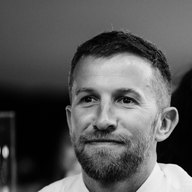
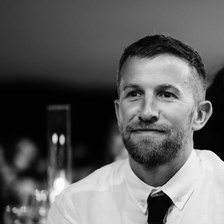
Left aligned hero

diff --git a/index.html b/index.html
@@ -22,7 +22,7 @@
 <meta name="twitter:image" content="https://jdux.design/assets/og-card.png?v=2">
 <link rel="icon" type="image/png" href="assets/jdux-logo.png">
 <link rel="apple-touch-icon" href="assets/jdux-logo.png">
-<script type="application/ld+json">{"@context":"https://schema.org","@type":"Person","name":"Jack Donovan","jobTitle":"Experience & Product Design Leader","url":"https://jdux.design/","address":{"@type":"PostalAddress","addressLocality":"London","addressCountry":"GB"},"knowsAbout":["Product Design","UX Design","Design Leadership","Design Systems"]}</script>
+<script type="application/ld+json">{"@context":"https://schema.org","@type":"Person","name":"Jack Donovan","jobTitle":"Product & Service Design Lead","url":"https://jdux.design/","address":{"@type":"PostalAddress","addressLocality":"Brighton and Hove","addressCountry":"GB"},"knowsAbout":["Product Design","UX Design","Design Leadership","Design Systems"]}</script>
 </head>
 <body>
 <x-dc>
@@ -39,9 +39,12 @@ a{color:inherit}
 @keyframes recblink{0%,100%{opacity:1}50%{opacity:0}}
 #g3-scroll::-webkit-scrollbar{display:none}
 .cases-mob{display:none}
-.hero-sectors a{color:var(--fg);text-decoration:none;border-bottom:2px solid var(--muted);cursor:pointer;transition:border-color .3s,color .3s}
+.hero-sectors a{color:var(--fg);text-decoration:none;border-bottom:1px solid var(--muted);cursor:pointer;transition:border-color .3s,color .3s}
 .hero-sectors a:hover,.hero-sectors a:focus-visible{border-bottom-color:var(--fg)!important;outline:none}
 .hero-sectors a:focus-visible{outline:2px solid var(--fg);outline-offset:4px}
+.hero-cta{display:inline-flex;align-items:center;gap:10px;padding:15px 22px;border-radius:4px;background:var(--fg);color:var(--bg);text-decoration:none;font:600 11px/1 'IBM Plex Mono';letter-spacing:.18em;text-transform:uppercase;transition:opacity .25s,transform .25s}
+.hero-cta:hover{opacity:.85}
+.hero-cta:focus-visible{outline:2px solid var(--fg);outline-offset:3px}
 .nav-compact{display:none}
 /* Tablet + mobile: compact nav, touch carousel, stacked sections */
 @container home (max-width:1199px){
@@ -63,7 +66,7 @@ a{color:inherit}
 }
 @container home (max-width:767px){
   .nav-desktop-only{display:none!important}
-  .hero-trust{gap:14px 18px!important}
+  .hero-trust{grid-template-columns:repeat(4,auto)!important;gap:16px 26px!important}
   .hero-trust img{height:15px!important;width:auto!important;max-width:62px!important;object-fit:contain}
   .hero-trust img[alt="Legal & General"],.hero-trust img[alt="Simplyhealth"],.hero-trust img[alt="Belmond"],.hero-trust img[alt="Matter of Form"],.hero-trust img[alt="AGL"]{height:24px!important}
   .hero-trust img[alt="Zepho"]{height:11px!important}
@@ -72,7 +75,9 @@ a{color:inherit}
   .hero-trust-wrap{bottom:34px!important}
   .hero-scroll-cue{display:none!important}
   .hero-sectors>span{margin:0 .3em!important}
-  .hero-sectors{font-size:1rem!important}
+  .hero-sectors{font-size:.88rem!important}
+  .hero-id-dash{display:none}
+  .hero-id-title{display:block;margin-top:3px}
   .writing-item{grid-template-columns:1fr!important;gap:7px!important;padding-top:20px!important;padding-bottom:22px!important}
   .writing-num{display:none!important}
   .writing-meta{justify-content:flex-start!important}
@@ -87,7 +92,7 @@ a{color:inherit}
 <div id="home-root" class="home-root" ref="{{ homeRef }}" style="position:relative;width:100%;height:100%;container:home / inline-size;--display:'EB Garamond',serif;--bg:#eceae4;--fg:#191815;--muted:#8a887f;--line:rgba(0,0,0,.16);background:var(--bg);color:var(--fg);font-family:'IBM Plex Sans',system-ui,sans-serif;transition:background-color .5s,color .5s;overflow:hidden">
 
 <div id="g3-nav" style="position:absolute;top:0;left:0;right:0;z-index:30;display:flex;align-items:center;justify-content:space-between;padding:22px 36px;box-sizing:border-box;background:transparent;border-bottom:1px solid transparent;transition:background .4s ease,backdrop-filter .4s ease,border-color .4s ease,box-shadow .4s ease,padding .35s ease">
-<div style="display:flex;align-items:center;gap:20px"><div style="color:var(--fg)"><img data-logoflip="" src="assets/jdux-logo.png" alt="JDUX" style="height:32px;width:auto;display:block"></div><span class="nav-desktop-only" style="width:1px;height:22px;background:var(--line)"></span><div class="nav-desktop-only" style="font:500 10px/1.4 'IBM Plex Mono';letter-spacing:.12em;color:var(--muted)"><div style="color:var(--fg);letter-spacing:.16em;text-transform:uppercase">London, UK</div><div><span id="g3-loc-time">--:--:--</span></div></div></div>
+<div style="display:flex;align-items:center;gap:20px"><div style="color:var(--fg)"><img data-logoflip="" src="assets/jdux-logo.png" alt="JDUX" style="height:32px;width:auto;display:block"></div><span class="nav-desktop-only" style="width:1px;height:22px;background:var(--line)"></span><div class="nav-desktop-only" style="font:500 10px/1.4 'IBM Plex Mono';letter-spacing:.12em;color:var(--muted)"><div style="color:var(--fg);letter-spacing:.16em;text-transform:uppercase">Brighton &amp; Hove, UK</div><div><span id="g3-loc-time">--:--:--</span></div></div></div>
 <div class="nav-desktop" style="display:flex;align-items:center;gap:24px">
 <nav style="display:flex;align-items:center;gap:13px;font-size:12px;letter-spacing:.06em;text-transform:uppercase;color:var(--fg)"><span data-nav="work" style="color:var(--muted);cursor:pointer">Work</span><span style="width:3px;height:3px;border-radius:50%;background:var(--muted);display:inline-block"></span><span data-nav="thoughts" style="color:var(--muted);cursor:pointer">Thoughts</span><span style="width:3px;height:3px;border-radius:50%;background:var(--muted);display:inline-block"></span><span data-nav="about" style="color:var(--muted);cursor:pointer">About</span><span style="width:3px;height:3px;border-radius:50%;background:var(--muted);display:inline-block"></span><span data-nav="contact" style="color:var(--muted);cursor:pointer">Contact</span></nav>
 <span style="width:1px;height:22px;background:var(--line)"></span>
@@ -108,7 +113,7 @@ a{color:inherit}
 <span data-mnav="contact" style="font-family:var(--display,'EB Garamond',serif);font-size:44px;line-height:1.5;letter-spacing:-.01em;cursor:pointer">Contact</span>
 </nav>
 <div style="border-top:1px solid var(--line);padding-top:22px;display:flex;flex-direction:column;gap:8px">
-<div style="font:600 10px/1 'IBM Plex Mono';letter-spacing:.16em;text-transform:uppercase;color:var(--muted)">London, UK · <span id="g3-loc-time2">--:--:--</span></div>
+<div style="font:600 10px/1 'IBM Plex Mono';letter-spacing:.16em;text-transform:uppercase;color:var(--muted)">Brighton &amp; Hove · <span id="g3-loc-time2">--:--:--</span></div>
 <a href="mailto:jack@jdux.design" style="font:500 14px/1.4 'IBM Plex Sans';color:var(--fg);text-decoration:none">jack@jdux.design</a>
 </div>
 </div>
@@ -129,14 +134,14 @@ a{color:inherit}
 <div id="g3-scroll" style="position:absolute;inset:0;overflow-y:auto;overflow-x:hidden;scrollbar-width:none">
 
 <section id="g3-hero" style="height:100%;min-height:600px;position:relative;display:flex;align-items:center;justify-content:center">
-<div class="hero-pad" style="position:relative;z-index:2;max-width:1080px;text-align:center;padding:0 60px;box-sizing:border-box">
-<div class="hero-id" style="display:flex;align-items:center;justify-content:center;gap:14px;margin-bottom:clamp(20px,3cqi,30px)"><img src="assets/hero-jack.jpg" alt="" width="52" height="52" style="width:52px;height:52px;border-radius:50%;object-fit:cover;display:block;flex:0 0 auto"><div style="text-align:left;display:flex;flex-direction:column;gap:7px"><span style="font:600 16px/1.1 'IBM Plex Sans';color:var(--fg)">Jack Donovan</span><span style="font:500 11px/1.2 'IBM Plex Mono';letter-spacing:.18em;text-transform:uppercase;color:var(--muted)">Product &amp; Service Design Lead</span></div></div>
-<h1 style="margin:0;font-family:var(--display,'EB Garamond',serif);font-weight:500;font-size:clamp(2.35rem,6.6cqi,5.75rem);line-height:1.02;letter-spacing:-.01em">I build what's missing.</h1>
-<p style="margin:clamp(20px,3cqi,30px) auto 0;max-width:56ch;font-size:clamp(1rem,1.55cqi,1.31rem);line-height:1.6;color:var(--fg);transition:color .4s ease,text-shadow .4s ease">Teams, standards, and products, in sectors that shape everyday life:</p>
-<nav class="hero-sectors" aria-label="Work by sector" style="margin-top:12px;font-size:clamp(1rem,1.55cqi,1.31rem);line-height:1.6"><a href="kaluza.html" data-home-trig="" data-idx="0">Energy</a><span aria-hidden="true" style="color:var(--muted);margin:0 .55em">·</span><a href="practi.html" data-home-trig="" data-idx="2">Healthcare</a><span aria-hidden="true" style="color:var(--muted);margin:0 .55em">·</span><a href="ford.html" data-home-trig="" data-idx="1">Automotive</a><span aria-hidden="true" style="color:var(--muted);margin:0 .55em">·</span><a href="wadi.html" data-home-trig="" data-idx="3">Hospitality</a></nav>
-<div data-hero-bright="" class="hero-scroll-cue" style="margin-top:clamp(22px,3cqi,30px);font:500 11px/1 'IBM Plex Mono';letter-spacing:.2em;text-transform:uppercase;color:var(--muted);transition:color .4s ease">Scroll to explore ↓</div>
+<div class="hero-pad" style="position:relative;z-index:2;width:100%;text-align:left;padding:0 36px;box-sizing:border-box">
+<div class="hero-id" style="display:flex;align-items:center;justify-content:flex-start;gap:16px;margin-bottom:clamp(22px,3.2cqi,34px)"><img src="assets/hero-jack.jpg" alt="" width="56" height="56" style="width:56px;height:56px;border-radius:50%;object-fit:cover;display:block;flex:0 0 auto"><div style="font-size:clamp(1rem,1.4cqi,1.25rem);line-height:1.3;color:var(--muted);text-align:left"><strong style="font-weight:600;color:var(--fg)">Jack Donovan</strong><span class="hero-id-dash"> — </span><span class="hero-id-title">Product &amp; Service Design Lead</span></div></div>
+<h1 data-hero-ticker="" style="margin:0;font-family:var(--display,'EB Garamond',serif);font-weight:500;font-size:clamp(2.35rem,6.6cqi,5.75rem);line-height:1.02;letter-spacing:-.01em;min-height:1.04em;transition:color .4s ease,text-shadow .4s ease"><span id="home-ticker"></span><span style="display:inline-block;width:.06em;height:.66em;margin-left:.09em;background:currentColor;vertical-align:baseline;animation:recblink 1.05s step-end infinite"></span></h1>
+<p style="margin:clamp(20px,3cqi,30px) 0 0;max-width:58ch;font-size:clamp(1rem,1.55cqi,1.31rem);line-height:1.6;color:var(--fg);transition:color .4s ease,text-shadow .4s ease">From concept validation to tested release, I frame the problem, set the direction and do the work, then build the teams and foundations that help it scale. In sectors that shape everyday life.</p>
+<nav class="hero-sectors" aria-label="Work by sector" style="margin-top:14px;font-size:clamp(.88rem,1.1cqi,1rem);line-height:1.6"><a href="kaluza.html" data-home-trig="" data-idx="0">Energy</a><span aria-hidden="true" style="color:var(--muted);margin:0 .55em">·</span><a href="practi.html" data-home-trig="" data-idx="2">Healthcare</a><span aria-hidden="true" style="color:var(--muted);margin:0 .55em">·</span><a href="ford.html" data-home-trig="" data-idx="1">Automotive</a><span aria-hidden="true" style="color:var(--muted);margin:0 .55em">·</span><a href="wadi.html" data-home-trig="" data-idx="3">Hospitality</a></nav>
+<div style="margin-top:clamp(26px,3.4cqi,38px)"><a href="mailto:jack@jdux.design" class="hero-cta">Email me <span aria-hidden="true">→</span></a></div>
 </div>
-<div class="hero-trust-wrap" style="position:absolute;left:0;right:0;bottom:56px;z-index:2;display:flex;flex-direction:column;align-items:center;gap:16px;padding:0 22px;box-sizing:border-box"><div style="font:500 10px/1 'IBM Plex Mono';letter-spacing:.24em;text-transform:uppercase;color:var(--muted)">Trusted by</div><div class="hero-trust" style="display:grid;grid-template-columns:repeat(5,auto);justify-content:center;justify-items:center;align-items:center;gap:20px 42px;opacity:.55"><img data-logoflip="" src="assets/logo-kaluza.png" alt="Kaluza" style="height:16px;width:auto;max-width:150px;object-fit:contain;display:block"><img data-logoflip="" src="assets/logo-ford.png" alt="Ford" style="height:25px;width:auto;max-width:150px;object-fit:contain;display:block"><img data-logoflip="" src="assets/logo-bcg.png" alt="BCG" style="height:19px;width:auto;max-width:150px;object-fit:contain;display:block"><img data-logoflip="" src="assets/logo-agl.png" alt="AGL" style="height:30px;width:auto;max-width:150px;object-fit:contain;display:block"><img data-logoflip="" src="assets/logo-simplyhealth.png" alt="Simplyhealth" style="height:36px;width:auto;max-width:150px;object-fit:contain;display:block"><img data-logoflip="" src="assets/logo-nab.png" alt="NAB" style="height:21px;width:auto;max-width:150px;object-fit:contain;display:block"><img data-logoflip="" src="assets/logo-zepho.svg" alt="Zepho" style="height:14px;width:auto;max-width:150px;object-fit:contain;display:block"><img data-logoflip="" src="assets/logo-belmond.png" alt="Belmond" style="height:30px;width:auto;max-width:150px;object-fit:contain;display:block"><img data-logoflip="" src="assets/logo-mof.png" alt="Matter of Form" style="height:30px;width:auto;max-width:150px;object-fit:contain;display:block"><img data-logoflip="" src="assets/logo-lg.png" alt="Legal &amp; General" style="height:32px;width:auto;max-width:150px;object-fit:contain;display:block"></div></div>
+<div class="hero-trust-wrap" style="position:absolute;left:0;right:0;bottom:56px;z-index:2;display:flex;flex-direction:column;align-items:center;gap:16px;padding:0 22px;box-sizing:border-box"><div style="font:500 10px/1 'IBM Plex Mono';letter-spacing:.24em;text-transform:uppercase;color:var(--muted)">Trusted by</div><div class="hero-trust" style="display:grid;grid-template-columns:repeat(8,auto);justify-content:center;justify-items:center;align-items:center;gap:20px 38px;opacity:.55"><img data-logoflip="" src="assets/logo-kaluza.png" alt="Kaluza" style="height:16px;width:auto;max-width:150px;object-fit:contain;display:block"><img data-logoflip="" src="assets/logo-ford.png" alt="Ford" style="height:25px;width:auto;max-width:150px;object-fit:contain;display:block"><img data-logoflip="" src="assets/logo-bcg.png" alt="BCG" style="height:19px;width:auto;max-width:150px;object-fit:contain;display:block"><img data-logoflip="" src="assets/logo-agl.png" alt="AGL" style="height:30px;width:auto;max-width:150px;object-fit:contain;display:block"><img data-logoflip="" src="assets/logo-simplyhealth.png" alt="Simplyhealth" style="height:36px;width:auto;max-width:150px;object-fit:contain;display:block"><img data-logoflip="" src="assets/logo-nab.png" alt="NAB" style="height:21px;width:auto;max-width:150px;object-fit:contain;display:block"><img data-logoflip="" src="assets/logo-zepho.svg" alt="Zepho" style="height:14px;width:auto;max-width:150px;object-fit:contain;display:block"><img data-logoflip="" src="assets/logo-belmond.png" alt="Belmond" style="height:30px;width:auto;max-width:150px;object-fit:contain;display:block"></div></div>
 </section>
 
 <section id="g3-work">
@@ -213,7 +218,7 @@ a{color:inherit}
 
 <section id="g3-contact" class="sec-pad" style="background:var(--bg);color:var(--fg);padding:clamp(72px,10cqi,110px) 72px clamp(56px,8cqi,96px);border-top:1px solid var(--line);transition:background-color .5s,color .5s">
 <div class="contact-row" style="display:flex;align-items:flex-end;justify-content:space-between;gap:40px;flex-wrap:wrap"><h2 class="contact-head" style="margin:0;font-family:var(--display,'EB Garamond',serif);font-weight:500;font-size:clamp(2.6rem,5.6cqi,5rem);line-height:1;letter-spacing:-.006em">Get in touch.</h2><a href="mailto:jack@jdux.design" data-btn="" data-bfill="var(--fg)" data-bink="var(--bg)" style="font:600 11px/1 'IBM Plex Mono';letter-spacing:.16em;text-transform:uppercase;color:var(--fg);border:1px solid var(--line);border-radius:6px;padding:15px 22px;text-decoration:none;transition:background .3s ease,color .3s ease,border-color .3s ease">Email me →</a></div>
-<div class="footer-row" style="margin-top:70px;display:flex;align-items:center;justify-content:space-between;border-top:1px solid var(--line);padding-top:30px"><div style="display:flex;align-items:center;gap:14px;color:var(--fg)"><img data-logoflip="" src="assets/jdux-logo.png" alt="JDUX" style="height:32px;width:auto;display:block"><span style="font:600 12px/1 'IBM Plex Sans';letter-spacing:.02em">jdux.design</span></div><span data-backtop="" style="font:600 11px/1 'IBM Plex Mono';letter-spacing:.14em;text-transform:uppercase;color:var(--muted);cursor:pointer;transition:color .3s ease">↑ Back to top</span><div style="display:flex;flex-direction:column;gap:6px;text-align:right"><span style="font:600 10px/1 'IBM Plex Mono';letter-spacing:.14em;text-transform:uppercase;color:var(--muted)">©2026 · London</span><span class="footer-credit" style="font:400 10px/1.5 'IBM Plex Sans';letter-spacing:.02em;color:var(--muted)">Designed &amp; built by Jack Donovan with Claude — an AI-led design workflow.</span></div></div>
+<div class="footer-row" style="margin-top:70px;display:flex;align-items:center;justify-content:space-between;border-top:1px solid var(--line);padding-top:30px"><div style="display:flex;align-items:center;gap:14px;color:var(--fg)"><img data-logoflip="" src="assets/jdux-logo.png" alt="JDUX" style="height:32px;width:auto;display:block"><span style="font:600 12px/1 'IBM Plex Sans';letter-spacing:.02em">jdux.design</span></div><span data-backtop="" style="font:600 11px/1 'IBM Plex Mono';letter-spacing:.14em;text-transform:uppercase;color:var(--muted);cursor:pointer;transition:color .3s ease">↑ Back to top</span><div style="display:flex;flex-direction:column;gap:6px;text-align:right"><span style="font:600 10px/1 'IBM Plex Mono';letter-spacing:.14em;text-transform:uppercase;color:var(--muted)">©2026 · Brighton &amp; Hove</span><span class="footer-credit" style="font:400 10px/1.5 'IBM Plex Sans';letter-spacing:.02em;color:var(--muted)">Designed &amp; built by Jack Donovan with Claude — an AI-led design workflow.</span></div></div>
 </section>
 
 </div>
@@ -228,7 +233,7 @@ class Component extends DCLogic {
     // Standalone (no sized ancestor) → fill the viewport; embedded frames keep filling their container.
     const parentH = root.parentElement ? root.parentElement.clientHeight : 0;
     if (!parentH || root.clientHeight < 50) root.style.height = '100dvh';
-    const PHRASES = []; // ticker retired: H1 is static
+    const PHRASES = ["I build what\u2019s missing."];
     this.initLoader(root, PHRASES);
 
     // clocks

diff --git a/kaluza.html b/kaluza.html
@@ -202,7 +202,7 @@ html,body{margin:0;padding:0}
 <!-- FOOTER -->
 <footer style="max-width:1240px;margin:0 auto;padding:130px 44px 70px">
 <div style="display:flex;align-items:flex-end;justify-content:space-between;gap:40px;flex-wrap:wrap"><h2 style="margin:0;font-family:var(--display,'EB Garamond',serif);font-weight:500;font-size:72px;line-height:1;letter-spacing:-.02em">Get in touch.</h2><a href="mailto:jack@jdux.design" style="font:600 11px/1 'IBM Plex Mono';letter-spacing:.16em;text-transform:uppercase;color:var(--fg);border:1px solid var(--line);border-radius:6px;padding:15px 22px;transition:background-color .3s ease,color .3s ease,border-color .3s ease" data-btn="" data-bfill="var(--fg)" data-bink="var(--bg)">Email me →</a></div>
-<div style="margin-top:64px;display:flex;align-items:center;justify-content:space-between;flex-wrap:wrap;gap:20px;border-top:1px solid var(--line);padding-top:30px"><div style="display:flex;align-items:center;gap:14px;color:var(--fg)"><img data-logoflip src="assets/jdux-logo.png" alt="JDUX" style="height:26px;width:auto;display:block"><span style="font:600 12px/1 'IBM Plex Sans';letter-spacing:.02em">jdux.design</span></div><span data-backtop="" style="font:600 11px/1 'IBM Plex Mono';letter-spacing:.14em;text-transform:uppercase;color:var(--muted);cursor:pointer;transition:color .3s ease">↑ Back to top</span><div style="display:flex;flex-direction:column;gap:6px;text-align:right"><span style="font:600 10px/1 'IBM Plex Mono';letter-spacing:.14em;text-transform:uppercase;color:var(--muted)">©2026 · London</span><span style="font:400 10px/1.6 'IBM Plex Sans';letter-spacing:.02em;color:var(--muted)">Designed &amp; built by Jack Donovan with Claude — an AI-led design workflow.</span></div></div>
+<div style="margin-top:64px;display:flex;align-items:center;justify-content:space-between;flex-wrap:wrap;gap:20px;border-top:1px solid var(--line);padding-top:30px"><div style="display:flex;align-items:center;gap:14px;color:var(--fg)"><img data-logoflip src="assets/jdux-logo.png" alt="JDUX" style="height:26px;width:auto;display:block"><span style="font:600 12px/1 'IBM Plex Sans';letter-spacing:.02em">jdux.design</span></div><span data-backtop="" style="font:600 11px/1 'IBM Plex Mono';letter-spacing:.14em;text-transform:uppercase;color:var(--muted);cursor:pointer;transition:color .3s ease">↑ Back to top</span><div style="display:flex;flex-direction:column;gap:6px;text-align:right"><span style="font:600 10px/1 'IBM Plex Mono';letter-spacing:.14em;text-transform:uppercase;color:var(--muted)">©2026 · Brighton &amp; Hove</span><span style="font:400 10px/1.6 'IBM Plex Sans';letter-spacing:.02em;color:var(--muted)">Designed &amp; built by Jack Donovan with Claude — an AI-led design workflow.</span></div></div>
 </footer>
 
 <div style="height:40px"></div>

diff --git a/ford.html b/ford.html
@@ -192,7 +192,7 @@ html,body{margin:0;padding:0}
 <!-- FOOTER -->
 <footer style="max-width:1240px;margin:0 auto;padding:130px 44px 70px">
 <div style="display:flex;align-items:flex-end;justify-content:space-between;gap:40px;flex-wrap:wrap"><h2 style="margin:0;font-family:'EB Garamond',serif;font-weight:500;font-size:72px;line-height:1;letter-spacing:-.02em">Get in touch.</h2><a href="mailto:jack@jdux.design" style="font:600 11px/1 'IBM Plex Mono';letter-spacing:.16em;text-transform:uppercase;color:var(--fg);border:1px solid var(--line);border-radius:6px;padding:15px 22px;transition:background-color .3s ease,color .3s ease,border-color .3s ease" data-btn="" data-bfill="var(--fg)" data-bink="var(--bg)">Email me →</a></div>
-<div style="margin-top:64px;display:flex;align-items:center;justify-content:space-between;flex-wrap:wrap;gap:20px;border-top:1px solid var(--line);padding-top:30px"><div style="display:flex;align-items:center;gap:14px;color:var(--fg)"><img data-logoflip src="assets/jdux-logo.png" alt="JDUX" style="height:26px;width:auto;display:block"><span style="font:600 12px/1 'IBM Plex Sans';letter-spacing:.02em">jdux.design</span></div><span data-backtop="" style="font:600 11px/1 'IBM Plex Mono';letter-spacing:.14em;text-transform:uppercase;color:var(--muted);cursor:pointer;transition:color .3s ease">↑ Back to top</span><div style="display:flex;flex-direction:column;gap:6px;text-align:right"><span style="font:600 10px/1 'IBM Plex Mono';letter-spacing:.14em;text-transform:uppercase;color:var(--muted)">©2026 · London</span><span style="font:400 10px/1.6 'IBM Plex Sans';letter-spacing:.02em;color:var(--muted)">Designed &amp; built by Jack Donovan with Claude — an AI-led design workflow.</span></div></div>
+<div style="margin-top:64px;display:flex;align-items:center;justify-content:space-between;flex-wrap:wrap;gap:20px;border-top:1px solid var(--line);padding-top:30px"><div style="display:flex;align-items:center;gap:14px;color:var(--fg)"><img data-logoflip src="assets/jdux-logo.png" alt="JDUX" style="height:26px;width:auto;display:block"><span style="font:600 12px/1 'IBM Plex Sans';letter-spacing:.02em">jdux.design</span></div><span data-backtop="" style="font:600 11px/1 'IBM Plex Mono';letter-spacing:.14em;text-transform:uppercase;color:var(--muted);cursor:pointer;transition:color .3s ease">↑ Back to top</span><div style="display:flex;flex-direction:column;gap:6px;text-align:right"><span style="font:600 10px/1 'IBM Plex Mono';letter-spacing:.14em;text-transform:uppercase;color:var(--muted)">©2026 · Brighton &amp; Hove</span><span style="font:400 10px/1.6 'IBM Plex Sans';letter-spacing:.02em;color:var(--muted)">Designed &amp; built by Jack Donovan with Claude — an AI-led design workflow.</span></div></div>
 </footer>
 
 <div style="height:40px"></div>

diff --git a/practi.html b/practi.html
@@ -188,7 +188,7 @@ html,body{margin:0;padding:0}
 <!-- FOOTER -->
 <footer style="max-width:1240px;margin:0 auto;padding:130px 44px 70px">
 <div style="display:flex;align-items:flex-end;justify-content:space-between;gap:40px;flex-wrap:wrap"><h2 style="margin:0;font-family:'EB Garamond',serif;font-weight:500;font-size:72px;line-height:1;letter-spacing:-.02em">Get in touch.</h2><a href="mailto:jack@jdux.design" style="font:600 11px/1 'IBM Plex Mono';letter-spacing:.16em;text-transform:uppercase;color:var(--fg);border:1px solid var(--line);border-radius:6px;padding:15px 22px;transition:background-color .3s ease,color .3s ease,border-color .3s ease" data-btn="" data-bfill="var(--fg)" data-bink="var(--bg)">Email me →</a></div>
-<div style="margin-top:64px;display:flex;align-items:center;justify-content:space-between;flex-wrap:wrap;gap:20px;border-top:1px solid var(--line);padding-top:30px"><div style="display:flex;align-items:center;gap:14px;color:var(--fg)"><img data-logoflip src="assets/jdux-logo.png" alt="JDUX" style="height:26px;width:auto;display:block"><span style="font:600 12px/1 'IBM Plex Sans';letter-spacing:.02em">jdux.design</span></div><span data-backtop="" style="font:600 11px/1 'IBM Plex Mono';letter-spacing:.14em;text-transform:uppercase;color:var(--muted);cursor:pointer;transition:color .3s ease">↑ Back to top</span><div style="display:flex;flex-direction:column;gap:6px;text-align:right"><span style="font:600 10px/1 'IBM Plex Mono';letter-spacing:.14em;text-transform:uppercase;color:var(--muted)">©2026 · London</span><span style="font:400 10px/1.6 'IBM Plex Sans';letter-spacing:.02em;color:var(--muted)">Designed &amp; built by Jack Donovan with Claude — an AI-led design workflow.</span></div></div>
+<div style="margin-top:64px;display:flex;align-items:center;justify-content:space-between;flex-wrap:wrap;gap:20px;border-top:1px solid var(--line);padding-top:30px"><div style="display:flex;align-items:center;gap:14px;color:var(--fg)"><img data-logoflip src="assets/jdux-logo.png" alt="JDUX" style="height:26px;width:auto;display:block"><span style="font:600 12px/1 'IBM Plex Sans';letter-spacing:.02em">jdux.design</span></div><span data-backtop="" style="font:600 11px/1 'IBM Plex Mono';letter-spacing:.14em;text-transform:uppercase;color:var(--muted);cursor:pointer;transition:color .3s ease">↑ Back to top</span><div style="display:flex;flex-direction:column;gap:6px;text-align:right"><span style="font:600 10px/1 'IBM Plex Mono';letter-spacing:.14em;text-transform:uppercase;color:var(--muted)">©2026 · Brighton &amp; Hove</span><span style="font:400 10px/1.6 'IBM Plex Sans';letter-spacing:.02em;color:var(--muted)">Designed &amp; built by Jack Donovan with Claude — an AI-led design workflow.</span></div></div>
 </footer>
 
 <div style="height:40px"></div>

diff --git a/wadi.html b/wadi.html
@@ -185,7 +185,7 @@ html,body{margin:0;padding:0}
 <!-- FOOTER -->
 <footer style="max-width:1240px;margin:0 auto;padding:130px 44px 70px">
 <div style="display:flex;align-items:flex-end;justify-content:space-between;gap:40px;flex-wrap:wrap"><h2 style="margin:0;font-family:'EB Garamond',serif;font-weight:500;font-size:72px;line-height:1;letter-spacing:-.02em">Get in touch.</h2><a href="mailto:jack@jdux.design" style="font:600 11px/1 'IBM Plex Mono';letter-spacing:.16em;text-transform:uppercase;color:var(--fg);border:1px solid var(--line);border-radius:6px;padding:15px 22px;transition:background-color .3s ease,color .3s ease,border-color .3s ease" data-btn="" data-bfill="var(--fg)" data-bink="var(--bg)">Email me →</a></div>
-<div style="margin-top:64px;display:flex;align-items:center;justify-content:space-between;flex-wrap:wrap;gap:20px;border-top:1px solid var(--line);padding-top:30px"><div style="display:flex;align-items:center;gap:14px;color:var(--fg)"><img data-logoflip src="assets/jdux-logo.png" alt="JDUX" style="height:26px;width:auto;display:block"><span style="font:600 12px/1 'IBM Plex Sans';letter-spacing:.02em">jdux.design</span></div><span data-backtop="" style="font:600 11px/1 'IBM Plex Mono';letter-spacing:.14em;text-transform:uppercase;color:var(--muted);cursor:pointer;transition:color .3s ease">↑ Back to top</span><div style="display:flex;flex-direction:column;gap:6px;text-align:right"><span style="font:600 10px/1 'IBM Plex Mono';letter-spacing:.14em;text-transform:uppercase;color:var(--muted)">©2026 · London</span><span style="font:400 10px/1.6 'IBM Plex Sans';letter-spacing:.02em;color:var(--muted)">Designed &amp; built by Jack Donovan with Claude — an AI-led design workflow.</span></div></div>
+<div style="margin-top:64px;display:flex;align-items:center;justify-content:space-between;flex-wrap:wrap;gap:20px;border-top:1px solid var(--line);padding-top:30px"><div style="display:flex;align-items:center;gap:14px;color:var(--fg)"><img data-logoflip src="assets/jdux-logo.png" alt="JDUX" style="height:26px;width:auto;display:block"><span style="font:600 12px/1 'IBM Plex Sans';letter-spacing:.02em">jdux.design</span></div><span data-backtop="" style="font:600 11px/1 'IBM Plex Mono';letter-spacing:.14em;text-transform:uppercase;color:var(--muted);cursor:pointer;transition:color .3s ease">↑ Back to top</span><div style="display:flex;flex-direction:column;gap:6px;text-align:right"><span style="font:600 10px/1 'IBM Plex Mono';letter-spacing:.14em;text-transform:uppercase;color:var(--muted)">©2026 · Brighton &amp; Hove</span><span style="font:400 10px/1.6 'IBM Plex Sans';letter-spacing:.02em;color:var(--muted)">Designed &amp; built by Jack Donovan with Claude — an AI-led design workflow.</span></div></div>
 </footer>
 
 <div style="height:40px"></div>
